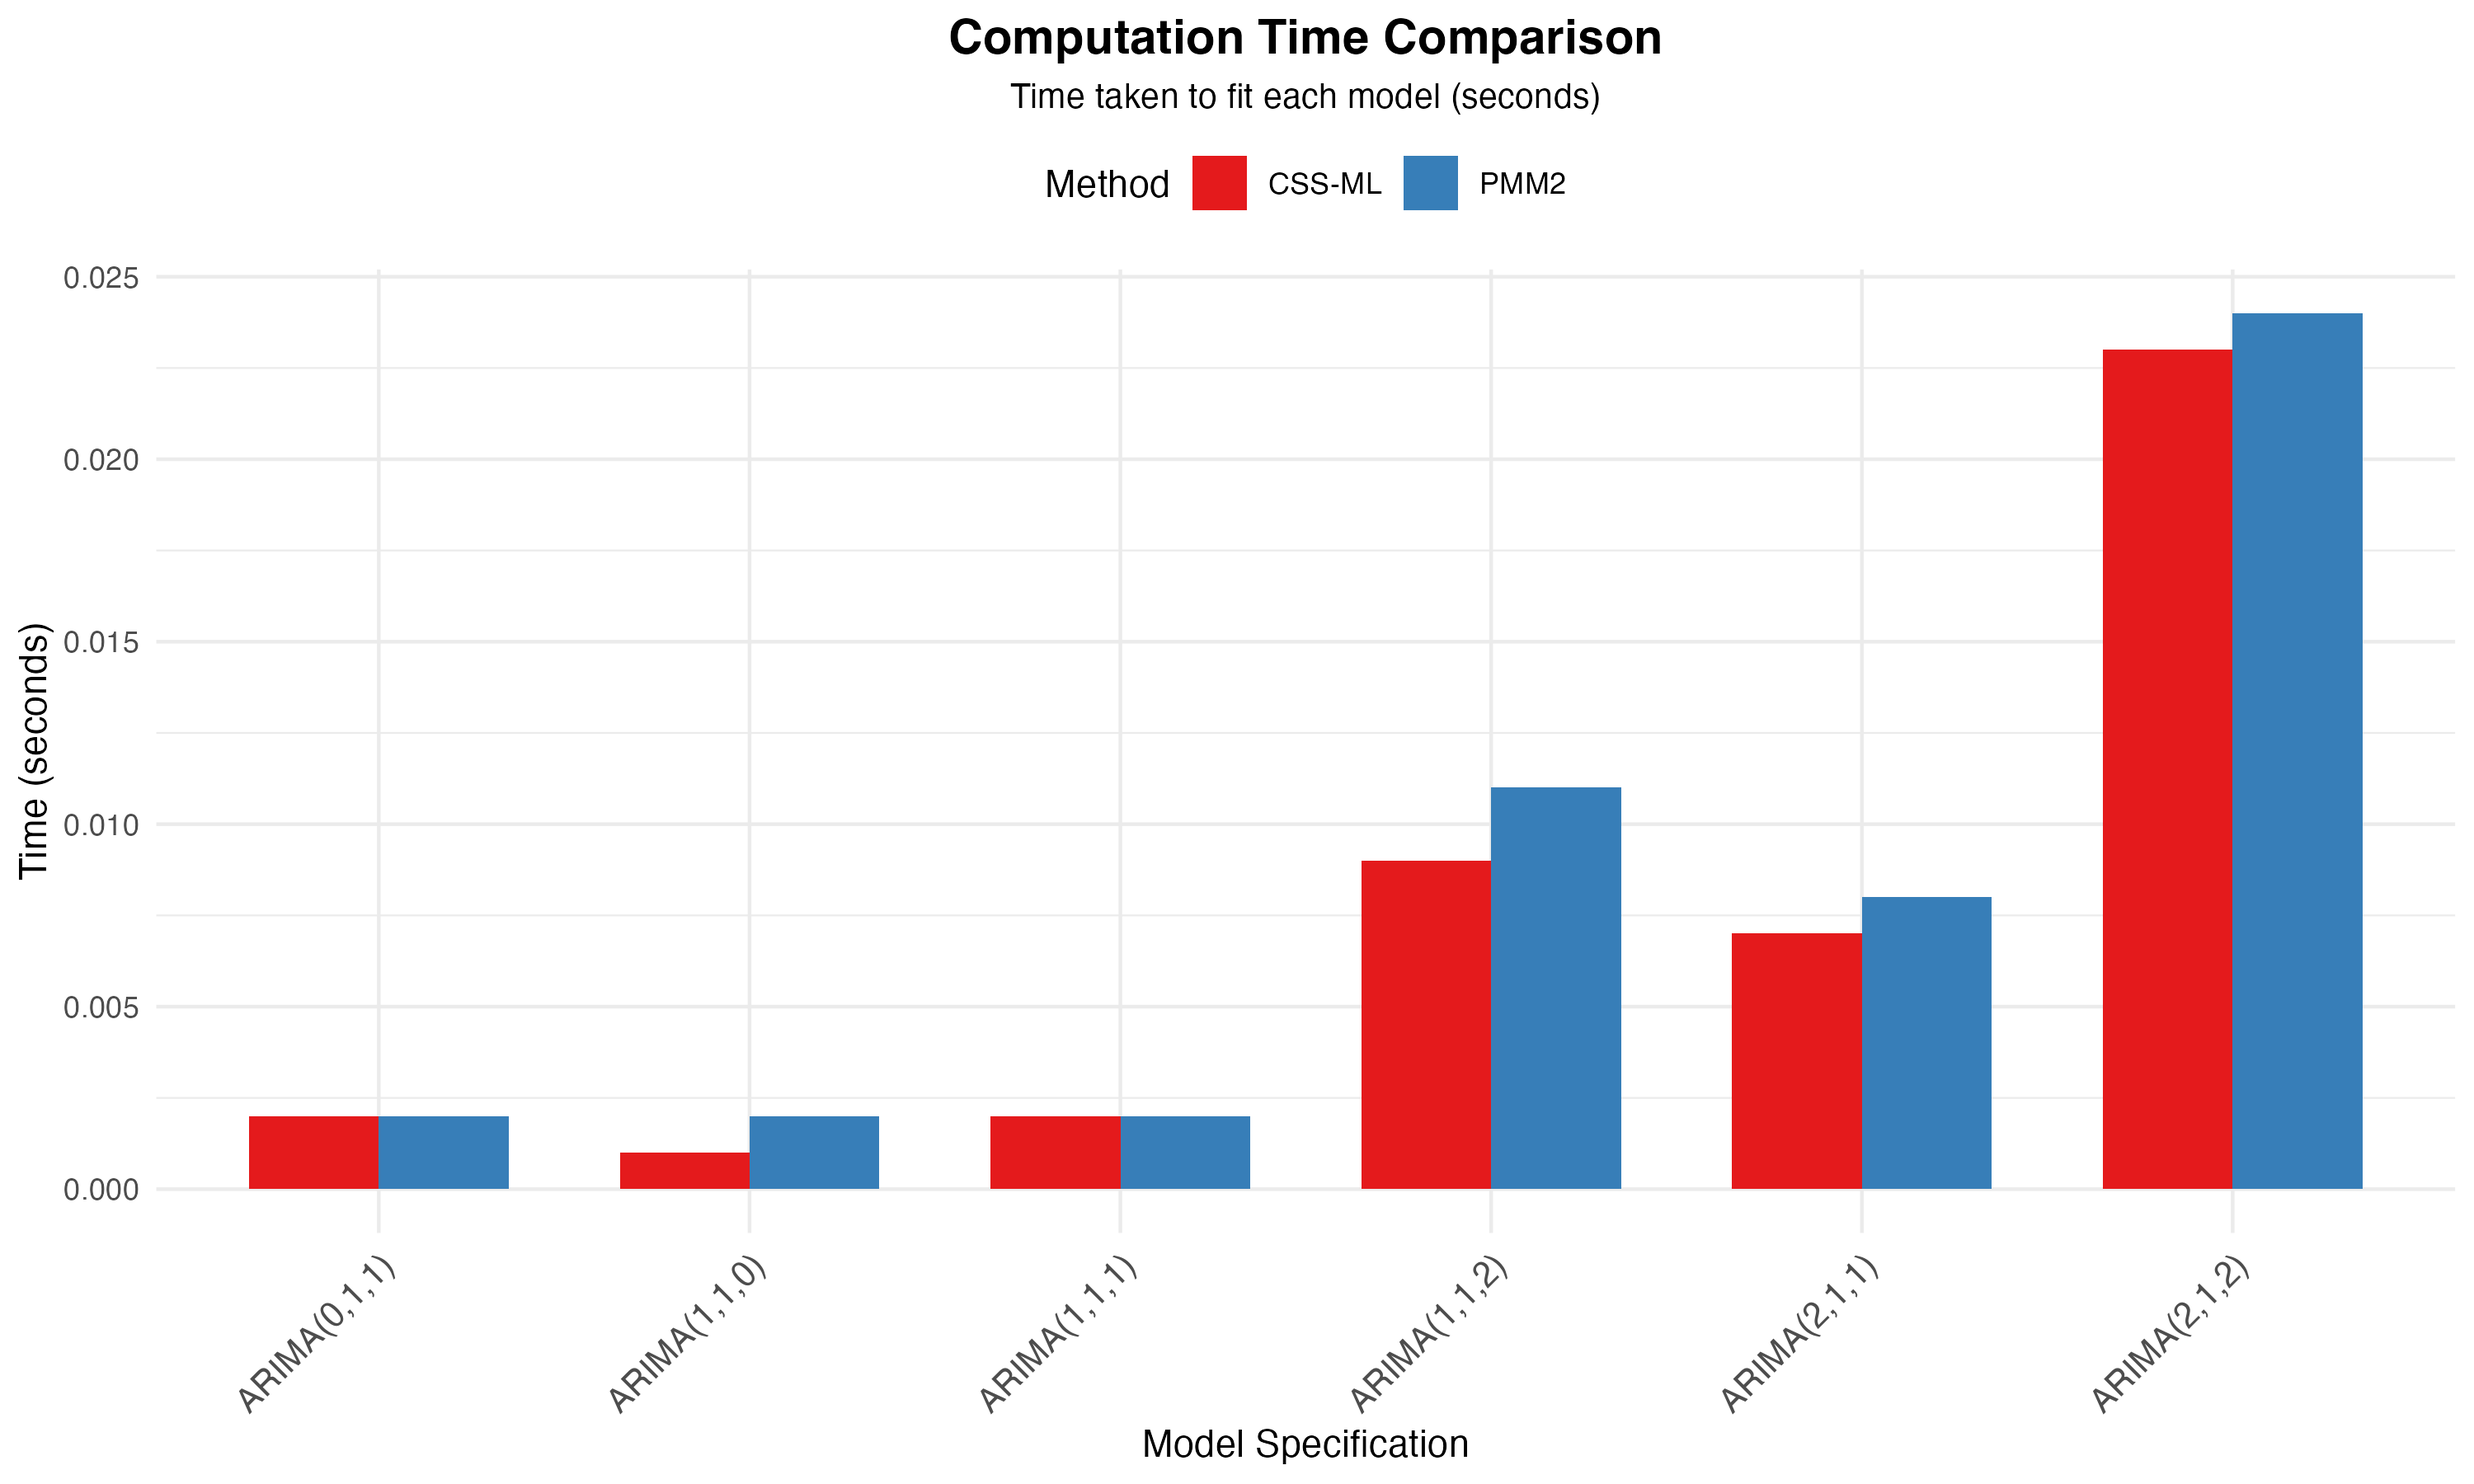
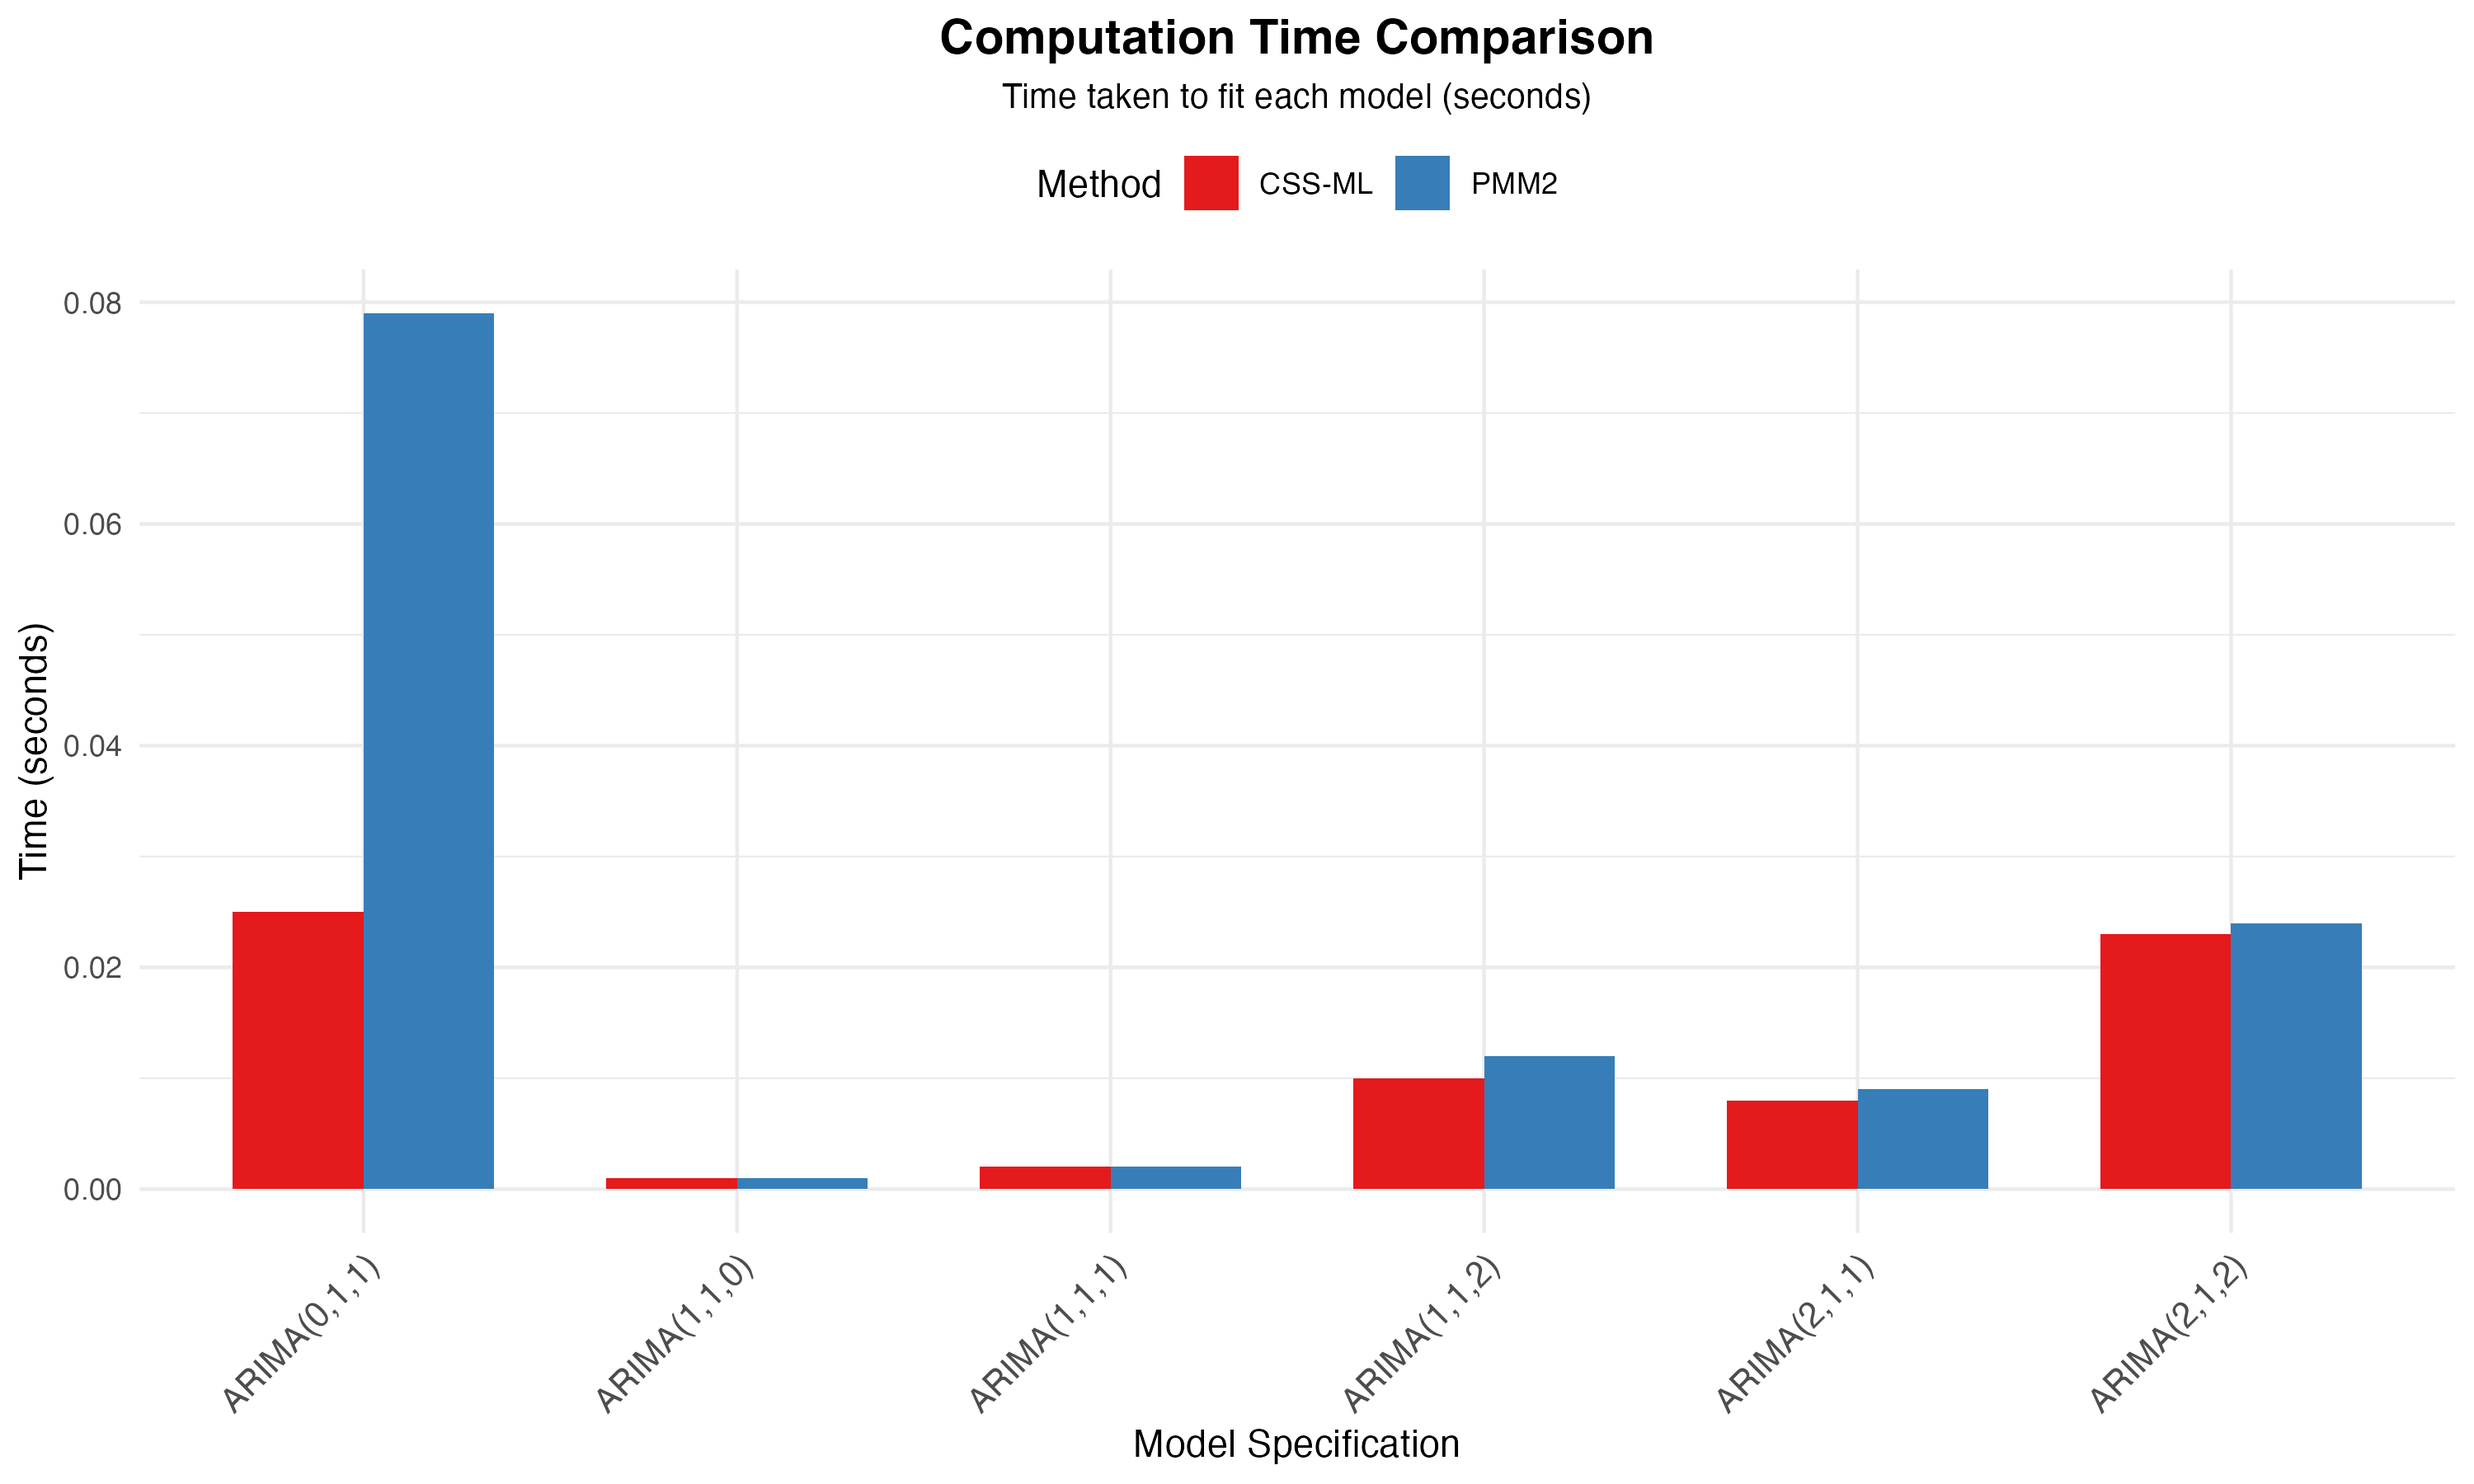
Update results and metadata for ARIMA model comparison
- Updated the report generation timestamp in ANALYTICAL_REPORT.md.
- Adjusted ARIMA model evaluation results in ANALYTICAL_REPORT.md and full_results.csv, including changes to AIC, BIC, and computation times.
- Updated binary files: all_results.rds, study_summary.rds, and various plot images to reflect the latest analysis.
- Ensured consistency in reported metrics and improved clarity in the results documentation.

diff --git a/Experiment_R/results/ANALYTICAL_REPORT.md b/Experiment_R/results/ANALYTICAL_REPORT.md
@@ -3,7 +3,7 @@
 
 ---
 
-**Report Generated:** 2025-10-27 11:19:23.238771
+**Report Generated:** 2025-10-31 09:29:27.899358
 
 **Data Source:** WTI Crude Oil Prices (DCOILWTICO)
 **Observations:** 1249
@@ -96,14 +96,14 @@ Six ARIMA specifications were evaluated:
 |------|-------|--------|-----|-----|------|-----|----------|--------|
 | 1 | ARIMA(1,1,1) | PMM2 | 5079.10 | 5089.36 | 1.8455 | 1.3211 | 5.749 | 0.002 |
 | 2 | ARIMA(2,1,2) | CSS-ML | 5101.25 | 5126.90 | 1.8592 | 1.3316 | 5.472 | 0.023 |
-| 3 | ARIMA(0,1,1) | PMM2 | 5123.67 | 5128.80 | 1.8802 | 1.3448 | 5.912 | 0.002 |
-| 4 | ARIMA(1,1,0) | PMM2 | 5123.80 | 5128.93 | 1.8803 | 1.3450 | 5.906 | 0.002 |
-| 5 | ARIMA(0,1,1) | CSS-ML | 5122.40 | 5132.66 | 1.8801 | 1.3452 | 5.859 | 0.002 |
+| 3 | ARIMA(0,1,1) | PMM2 | 5123.67 | 5128.80 | 1.8802 | 1.3448 | 5.912 | 0.079 |
+| 4 | ARIMA(1,1,0) | PMM2 | 5123.80 | 5128.93 | 1.8803 | 1.3450 | 5.906 | 0.001 |
+| 5 | ARIMA(0,1,1) | CSS-ML | 5122.40 | 5132.66 | 1.8801 | 1.3452 | 5.859 | 0.025 |
 | 6 | ARIMA(1,1,0) | CSS-ML | 5122.48 | 5132.74 | 1.8801 | 1.3454 | 5.847 | 0.001 |
-| 7 | ARIMA(2,1,1) | CSS-ML | 5112.97 | 5133.48 | 1.8699 | 1.3363 | 5.314 | 0.007 |
-| 8 | ARIMA(1,1,2) | CSS-ML | 5113.23 | 5133.75 | 1.8701 | 1.3362 | 5.334 | 0.009 |
-| 9 | ARIMA(1,1,2) | PMM2 | 5119.50 | 5134.89 | 1.8740 | 1.3387 | 5.711 | 0.011 |
-| 10 | ARIMA(2,1,1) | PMM2 | 5119.58 | 5134.97 | 1.8741 | 1.3386 | 5.704 | 0.008 |
+| 7 | ARIMA(2,1,1) | CSS-ML | 5112.97 | 5133.48 | 1.8699 | 1.3363 | 5.314 | 0.008 |
+| 8 | ARIMA(1,1,2) | CSS-ML | 5113.23 | 5133.75 | 1.8701 | 1.3362 | 5.334 | 0.010 |
+| 9 | ARIMA(1,1,2) | PMM2 | 5119.50 | 5134.89 | 1.8740 | 1.3387 | 5.711 | 0.012 |
+| 10 | ARIMA(2,1,1) | PMM2 | 5119.58 | 5134.97 | 1.8741 | 1.3386 | 5.704 | 0.009 |
 | 11 | ARIMA(1,1,1) | CSS-ML | 5123.89 | 5139.28 | 1.8797 | 1.3440 | 5.897 | 0.002 |
 | 12 | ARIMA(2,1,2) | PMM2 | 5122.95 | 5143.47 | 1.8751 | 1.3451 | 5.505 | 0.024 |
 
@@ -153,7 +153,7 @@ Six ARIMA specifications were evaluated:
 | BIC | 5133.14 | 5126.74 | -6.40 |
 | RMSE | 1.8732 | 1.8715 | -0.0017 |
 | MAE | 1.3398 | 1.3389 | -0.0009 |
-| Time | 0.0073 s | 0.0082 s | +0.0008 s |
+| Time | 0.0115 s | 0.0212 s | +0.0097 s |
 
 ---
 
@@ -213,14 +213,14 @@ Values < 1 favor PMM2, > 1 favor CSS-ML; ratios derive from observed residual mo
 
 | Model | CSS-ML Time (s) | PMM2 Time (s) | Speedup Factor |
 |-------|----------------|---------------|----------------|
-| ARIMA(0,1,1) | 0.0020 | 0.0020 | 1.00x |
-| ARIMA(1,1,0) | 0.0010 | 0.0020 | 0.50x |
+| ARIMA(0,1,1) | 0.0250 | 0.0790 | 0.32x |
+| ARIMA(1,1,0) | 0.0010 | 0.0010 | 1.00x |
 | ARIMA(1,1,1) | 0.0020 | 0.0020 | 1.00x |
-| ARIMA(2,1,1) | 0.0070 | 0.0080 | 0.87x |
-| ARIMA(1,1,2) | 0.0090 | 0.0110 | 0.82x |
+| ARIMA(2,1,1) | 0.0080 | 0.0090 | 0.89x |
+| ARIMA(1,1,2) | 0.0100 | 0.0120 | 0.83x |
 | ARIMA(2,1,2) | 0.0230 | 0.0240 | 0.96x |
 
-**Average Speedup:** 0.90x (CSS-ML is faster)
+**Average Speedup:** 0.54x (CSS-ML is faster)
 
 ---
 
@@ -245,7 +245,7 @@ Values < 1 favor PMM2, > 1 favor CSS-ML; ratios derive from observed residual mo
 
 4. **Computational Cost**
    - CSS-ML is slightly faster
-   - But difference is negligible (1.11x)
+   - But difference is negligible (1.84x)
 
 ### 8.2 Practical Recommendations
 
@@ -319,7 +319,7 @@ The following visualizations are available in the `plots/` directory:
 
 ## 11. METADATA
 
-- **Report Generated:** 2025-10-27 11:19:23.277608
+- **Report Generated:** 2025-10-31 09:29:27.934605
 - **EstemPMM Version:** 0.1.1
 - **R Version:** R version 4.5.1 (2025-06-13)
 - **Platform:** aarch64-apple-darwin24.4.0
